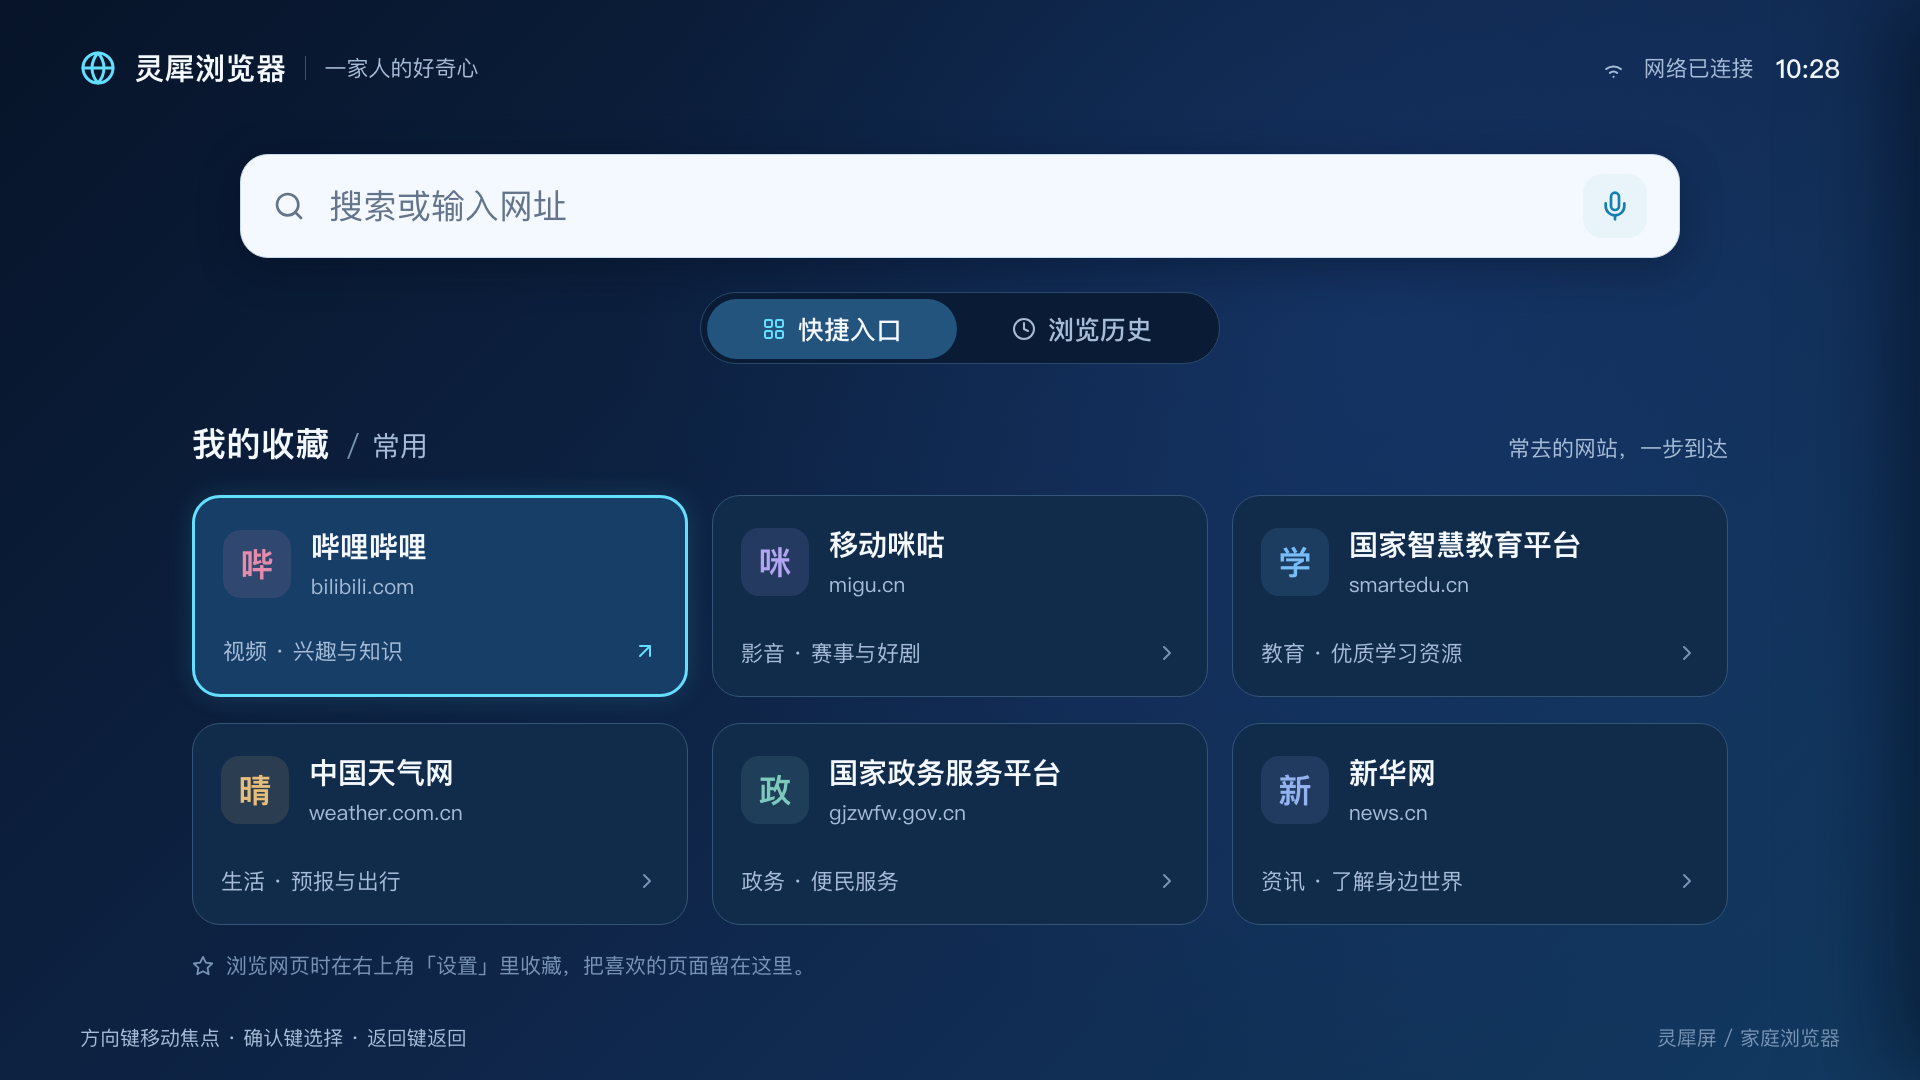
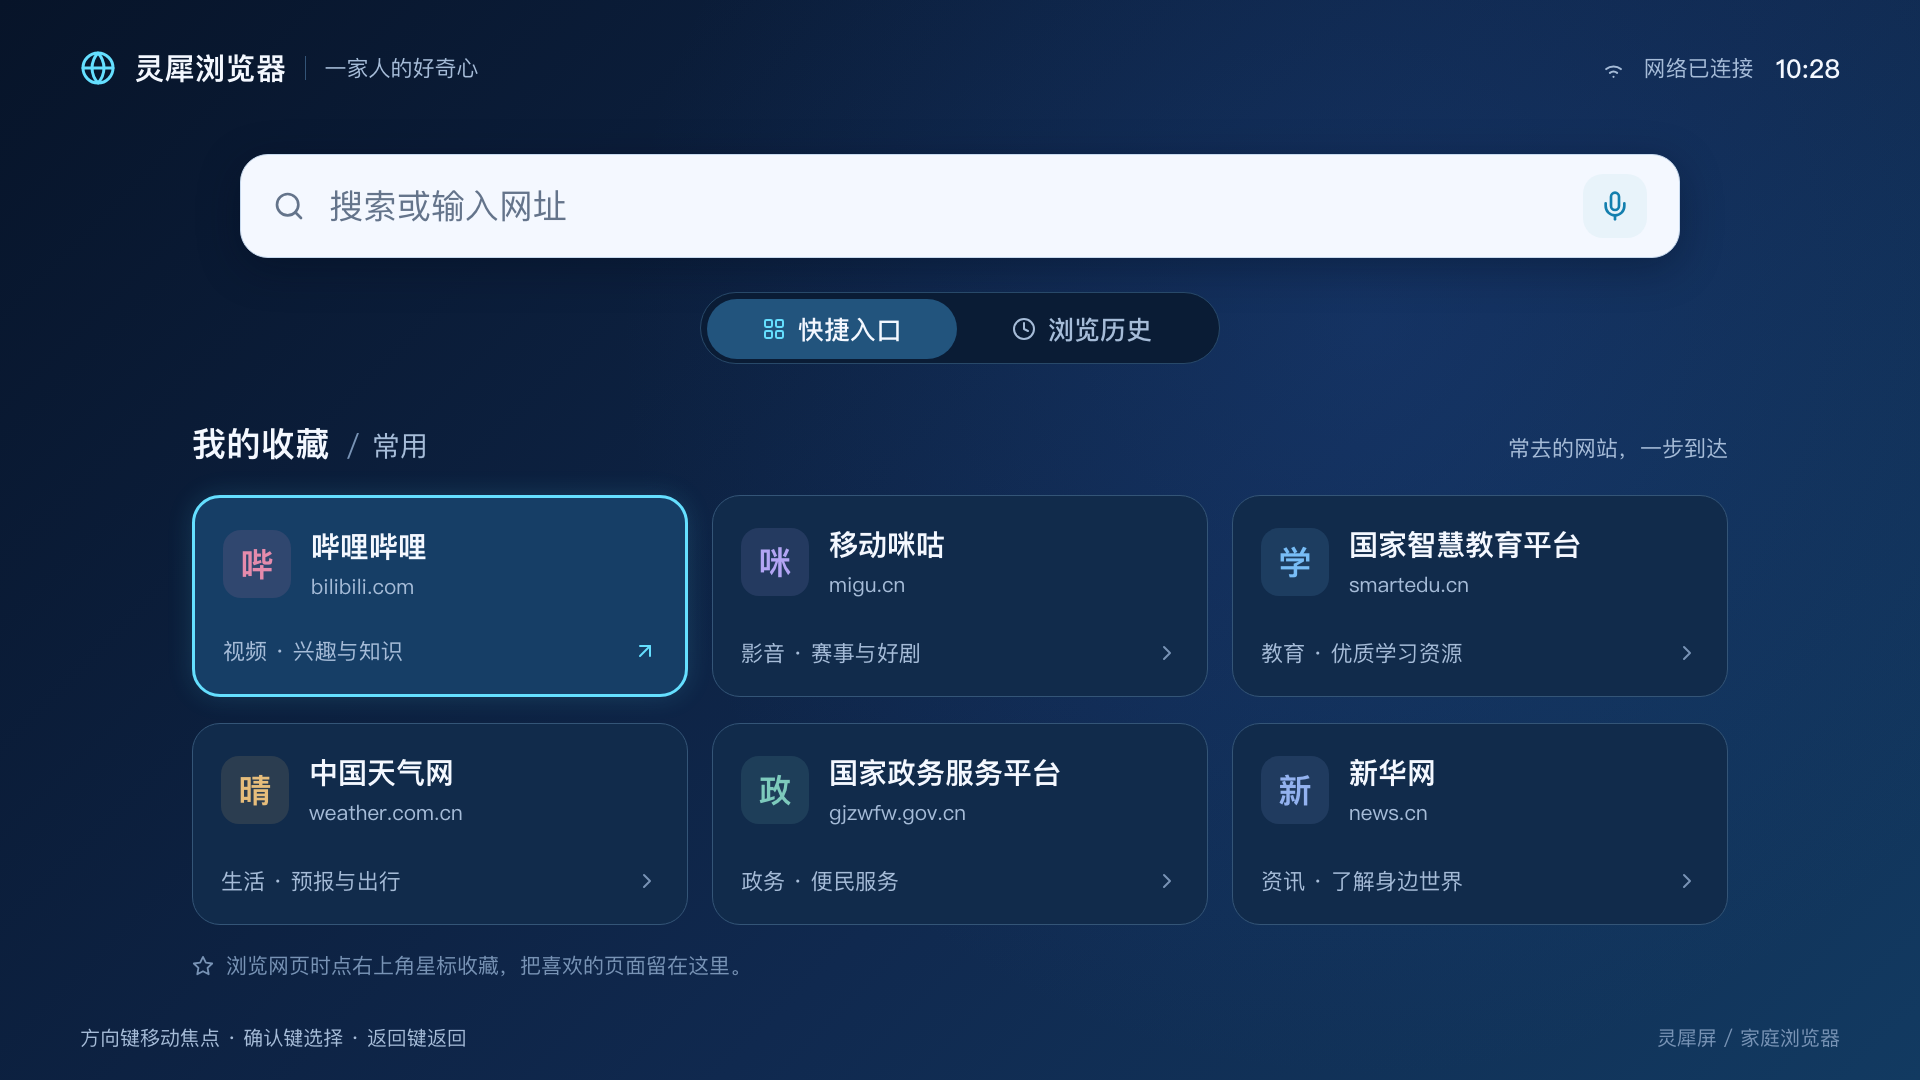
feat: 网页加载进度（进度条 + 百分比 + 骨架屏）
- 工具栏下方 6px 青色渐变进度条，随加载实时增长
- 地址栏右侧显示百分比，加载结束隐藏；刷新图标同步旋转
- 结果页 / 文章页各一套骨架屏，加载完成后替换为真实内容
- 进入设置页自动终止加载；刷新按钮重新走一遍加载
- 新增 12/13 号加载态预览图，README 补充加载说明

Changed region(s): [[0.9688, 0.1528, 1.0, 0.9472], [0.2188, 0.8861, 0.4062, 0.9167]]

diff --git a/index.html b/index.html
@@ -285,6 +285,22 @@ svg{display:block;}
 /* —— 搜索结果页 —— */
 .webcard.at{padding:30px 72px 36px;}
 .webcard::-webkit-scrollbar{display:none;}
+
+/* —— 加载进度与骨架屏 —— */
+.wb-prog{position:absolute;left:72px;top:127px;width:1776px;height:6px;border-radius:3px;
+  background:rgba(101,223,255,.16);overflow:hidden;z-index:14;
+  opacity:0;transition:opacity .24s var(--ease);pointer-events:none;}
+.wb-prog.on{opacity:1;}
+.wb-prog i{display:block;height:100%;width:0;border-radius:3px;
+  background:linear-gradient(90deg,#3FA9E0,#8CEBFF);box-shadow:0 0 16px rgba(101,223,255,.5);}
+.address .pct{font-size:22px;color:var(--cyan);margin-left:14px;flex:0 0 auto;display:none;letter-spacing:.5px;}
+.address .pct.on{display:block;}
+.sk-b{border-radius:9px;background:linear-gradient(90deg,#EDF2F8 25%,#DDE6F0 37%,#EDF2F8 63%);
+  background-size:400% 100%;animation:skmove 1.25s ease-in-out infinite;flex:0 0 auto;}
+@keyframes skmove{0%{background-position:100% 50%}100%{background-position:0 50%}}
+.sk-row{display:flex;align-items:center;}
+.sk-line{height:1px;background:#E5EAF1;}
+
 .sr-top{height:66px;display:flex;align-items:center;}
 .sr-logo{font-size:38px;font-weight:700;color:#315CC9;letter-spacing:0;width:76px;flex:0 0 auto;white-space:nowrap;}
 .sr-input{width:1000px;height:64px;border-radius:12px;border:1px solid #8099D7;margin-left:30px;display:flex;align-items:center;padding:0 0 0 22px;position:relative;}
@@ -499,6 +515,7 @@ svg{display:block;}
     <div class="address">
       <span class="lock" data-i="lock"></span>
       <span class="url" id="wbUrl"></span>
+      <span class="pct" id="wbPct">0%</span>
       <span class="div"></span>
       <span class="refresh" data-act="refresh" id="wbRefresh" data-i="refresh"></span>
     </div>
@@ -509,6 +526,7 @@ svg{display:block;}
       <span data-i="gear"></span><span>设置</span>
     </div>
   </div>
+  <div class="wb-prog" id="wbProg"><i id="wbProgFill"></i></div>
   <section class="webcard" id="webcard" hidden></section>
 
   <!-- ===================== 遥控提示 ===================== -->
@@ -651,6 +669,7 @@ const S={
   fs:0, setFrom:'web', modal:false,
   hist:HIST.map(g=>({g:g.g,n:g.n,rows:g.rows.slice()})),
   toastTimer:null,
+  load:{on:false,pct:0}, loadTimer:null,
 };
 const FS=[1,1.12,1.24];
 
@@ -823,8 +842,87 @@ function renderWeb(){
   $('#wbSet').classList.toggle('on',S.view==='settings');
   const card=$('#webcard');
   card.classList.toggle('at',S.page==='article');
-  if(S.page==='article') card.innerHTML=articleHTML(); else card.innerHTML=resultsHTML();
+  if(S.load.on) card.innerHTML=loadingHTML();
+  else if(S.page==='article') card.innerHTML=articleHTML();
+  else card.innerHTML=resultsHTML();
   stage.style.setProperty('--ts',FS[S.fs]);
+  paintLoad();
+}
+
+/* —— 加载进度 —— */
+function paintLoad(){
+  const on = S.load.on || S.load.pct>0;
+  $('#wbProg').classList.toggle('on',on);
+  $('#wbProgFill').style.width = S.load.pct+'%';
+  const p=$('#wbPct');
+  p.textContent = S.load.pct+'%';
+  p.classList.toggle('on',S.load.on);
+  $('#wbRefresh').classList.toggle('spin',S.load.on);
+  if(S.load.on && S.view==='web') $('#hintL').textContent='页面加载中 '+S.load.pct+'%  ·  请稍候';
+}
+function startLoad(){
+  clearInterval(S.loadTimer);
+  S.load.on=true; S.load.pct=0;
+  const card=$('#webcard'); if(card) card.scrollTop=0;
+  render();
+  const t0=performance.now(), DUR=1400;
+  S.loadTimer=setInterval(()=>{
+    const r=Math.min(1,(performance.now()-t0)/DUR);
+    S.load.pct = Math.round(100*(1-Math.pow(1-r,1.7)));
+    if(r>=1){
+      clearInterval(S.loadTimer);
+      S.load.on=false; S.load.pct=100;
+      render(); paintLoad();
+      setTimeout(()=>{ S.load.pct=0; paintLoad(); },260);
+      return;
+    }
+    paintLoad();
+  },40);
+}
+function stopLoad(){
+  clearInterval(S.loadTimer);
+  S.load.on=false; S.load.pct=0;
+  paintLoad();
+}
+
+/* —— 骨架屏 —— */
+const B=(w,h,m)=>'<div class="sk-b" style="width:'+w+'px;height:'+h+'px'+(m?';margin-top:'+m+'px':'')+'"></div>';
+function loadingHTML(){
+  if(S.page==='article'){
+    let secs='';
+    for(let i=0;i<3;i++){
+      secs+='<div style="margin-top:34px">'+B(300,28)+
+        B(880,24,16)+B(920,24,12)+B(760,24,12)+'</div>';
+    }
+    return '<div class="at-nav"><div class="sk-row" style="gap:14px">'+
+        B(42,42)+B(132,26,0)+B(180,20,0)+'</div></div>'+
+      '<div class="sk-line" style="margin-top:22px"></div>'+
+      '<div class="sk-row" style="margin-top:36px;align-items:flex-start;gap:64px">'+
+        '<div style="flex:1 1 auto">'+
+          B(190,22)+B(660,40,24)+B(430,24,22)+B(900,26,28)+B(920,24,14)+
+          secs+
+        '</div>'+
+        '<div style="width:432px;flex:0 0 auto">'+
+          B(200,28)+
+          '<div style="margin-top:22px">'+B(392,24)+B(368,24,14)+B(380,24,14)+'</div>'+
+        '</div>'+
+      '</div>';
+  }
+  let cards='';
+  for(let i=0;i<3;i++){
+    cards+='<div style="margin-top:'+(i?26:0)+'px">'+
+      '<div class="sk-row">'+B(24,24)+B(150,22,0)+B(120,22,0)+'</div>'+
+      B(620,30,16)+B(900,24,14)+B(820,24,12)+'</div>';
+  }
+  let kws='';
+  for(let i=0;i<5;i++) kws+=B(360,24,i?16:0);
+  return '<div class="sr-top" style="gap:30px">'+B(76,44)+B(1000,64,0)+B(220,24,0)+'</div>'+
+    '<div class="sr-tabs">'+['44px','44px','44px','44px','44px'].map(()=>B(44,26)).join('')+'</div>'+
+    '<div class="sk-line" style="margin-top:18px"></div>'+
+    '<div class="sk-row" style="margin-top:30px;align-items:flex-start;gap:64px">'+
+      '<div style="width:1100px;flex:0 0 auto">'+cards+'</div>'+
+      '<div style="width:432px;flex:0 0 auto">'+B(170,28)+'<div style="margin-top:22px">'+kws+'</div></div>'+
+    '</div>';
 }
 function resultsHTML(){
   return '<div class="sr-top">'+
@@ -944,6 +1042,7 @@ function render(){
   document.querySelectorAll('#segFs div').forEach((d,i)=>d.classList.toggle('on',i===S.fs));
   const total=S.hist.reduce((a,g)=>a+g.rows.length,0);
   $('#clearNote').textContent='将清除本机的 '+total+' 条浏览记录，不会删除我的收藏。';
+  if(isWeb && S.load.on) $('#hintL').textContent='页面加载中 '+S.load.pct+'%  ·  请稍候';
   paintIcons();
 }
 
@@ -954,6 +1053,8 @@ function go(view,opt){
   if(view==='home' && S.tab==='empty' && S.hist.every(g=>!g.rows.length)) S.tab='empty';
   S.py='';
   render();
+  if(view==='web') startLoad();
+  else if(S.load.on || S.load.pct) stopLoad();
 }
 function toast(msg){
   const t=$('#toast');
@@ -980,8 +1081,8 @@ const ACT={
     else { go('web',{page:'results',q:'秋季养生',starred:false}); } },
   openArticle(){ go('web',{page:'article',q:'秋季养生',starred:false}); },
   doSearch(){ if(!S.q.trim()){ S.q='秋季养生'; } go('web',{page:'results',starred:false}); },
-  refresh(){ const r=$('#wbRefresh'); r.classList.add('spin'); setTimeout(()=>r.classList.remove('spin'),520); toast('页面已刷新'); },
-  openSet(){ if(S.view!=='settings') S.setFrom=S.view; S.view='settings'; render(); },
+  refresh(){ startLoad(); toast('页面已重新加载'); },
+  openSet(){ stopLoad(); if(S.view!=='settings') S.setFrom=S.view; S.view='settings'; render(); },
   closeSet(){ S.view=S.setFrom||'web'; render(); },
   toggleStar(){
     S.starred=!S.starred; render();
@@ -1052,7 +1153,7 @@ window.addEventListener('resize',fit);
 
 /* ===================== 起播 ===================== */
 paintIcons();
-render();
+if(S.view==='web') startLoad(); else render();
 fit();
 document.title='灵犀浏览器 · 高保真可交互 Demo（Figma 版）';
 </script>

diff --git a/README.md b/README.md
@@ -32,6 +32,8 @@
 | 09 | 清空历史 · 确认 | `#view=home&tab=history&modal=clear` |
 | 10 | 设置页（全屏） | `#view=settings&page=article` |
 | 11 | 网页浏览 · 已收藏 | `#view=web&page=article&star=1` |
+| 12 | 网页加载 · 结果页（骨架屏） | `#view=web&page=results&q=秋季养生`（约 0.8s 内截图） |
+| 13 | 网页加载 · 文章页（骨架屏） | `#view=web&page=article`（约 0.6s 内截图） |
 
 预览图见 `preview/`，逐页对应上表。
 
@@ -64,6 +66,20 @@
 | ⚙ 设置 | 140 × 88，圆角 20 | 点击进入**全屏设置页**，返回键 / × 回到进入前的页面 |
 
 打开网页时的收藏初值也按来源区分：点首页收藏卡片进入 → 已收藏；搜索、历史、结果列表进入 → 未收藏。
+
+### 网页加载进度
+
+每次进入或切换网页（首页卡片、历史条目、搜索结果、文章、刷新）都会走一次约 1.4 秒的加载过程，三处同步反馈：
+
+| 位置 | 表现 |
+|---|---|
+| 工具栏下方 | 6px 进度条，青色渐变 `#3FA9E0 → #8CEBFF`，带外发光，宽度随进度实时增长 |
+| 地址栏右侧 | 百分比数字「74%」，加载结束自动隐藏 |
+| 地址栏刷新图标 | 加载期间持续旋转 |
+
+页面主体在加载期间显示**骨架屏**（浅灰流光块），结果页与文章页各有一套版式，与真实版面同位置、同尺寸；加载完成后整体替换为真实内容，进度条冲到 100% 后停留 260ms 再淡出。遥控提示同步显示「页面加载中 74% · 请稍候」。
+
+加载过程中进入设置页会自动终止加载，返回后直接展示已加载内容。
 
 ### 设置页（全屏独立页面）
 
@@ -128,7 +144,8 @@
 - 未听清态 → 重试麦克风 / 取消
 
 **网页**
-- 返回主页、刷新（图标旋转 + 轻提示）
+- 加载进度：顶部进度条 + 地址栏百分比 + 刷新图标旋转 + 骨架屏（结果页 / 文章页两套版式）
+- 返回主页、刷新（重新走一遍加载进度）
 - 结果条目点击进入文章页；文章页字号随设置实时变化
 - 右上角星标：点击直接收藏 / 取消，金色点亮 + toast（与上一版一致）
 - 右上角设置：进入全屏设置页，字号三档、阅读增强、清空历史、返回主页
@@ -152,8 +169,8 @@ python3 -m http.server 8000
 ## 文件结构
 
 ```
-index.html           深色版（Figma 还原，55KB 单文件）
-preview/             10 张逐页截图（1920×1080）
+index.html           深色版（Figma 还原，单文件）
+preview/             13 张逐页截图（1920×1080，含 2 张加载态）
 light/index.html     浅色版（历史版本）
 light/preview/       浅色版 11 张截图
 .nojekyll            关闭 Jekyll，保证 GitHub Pages 直出
